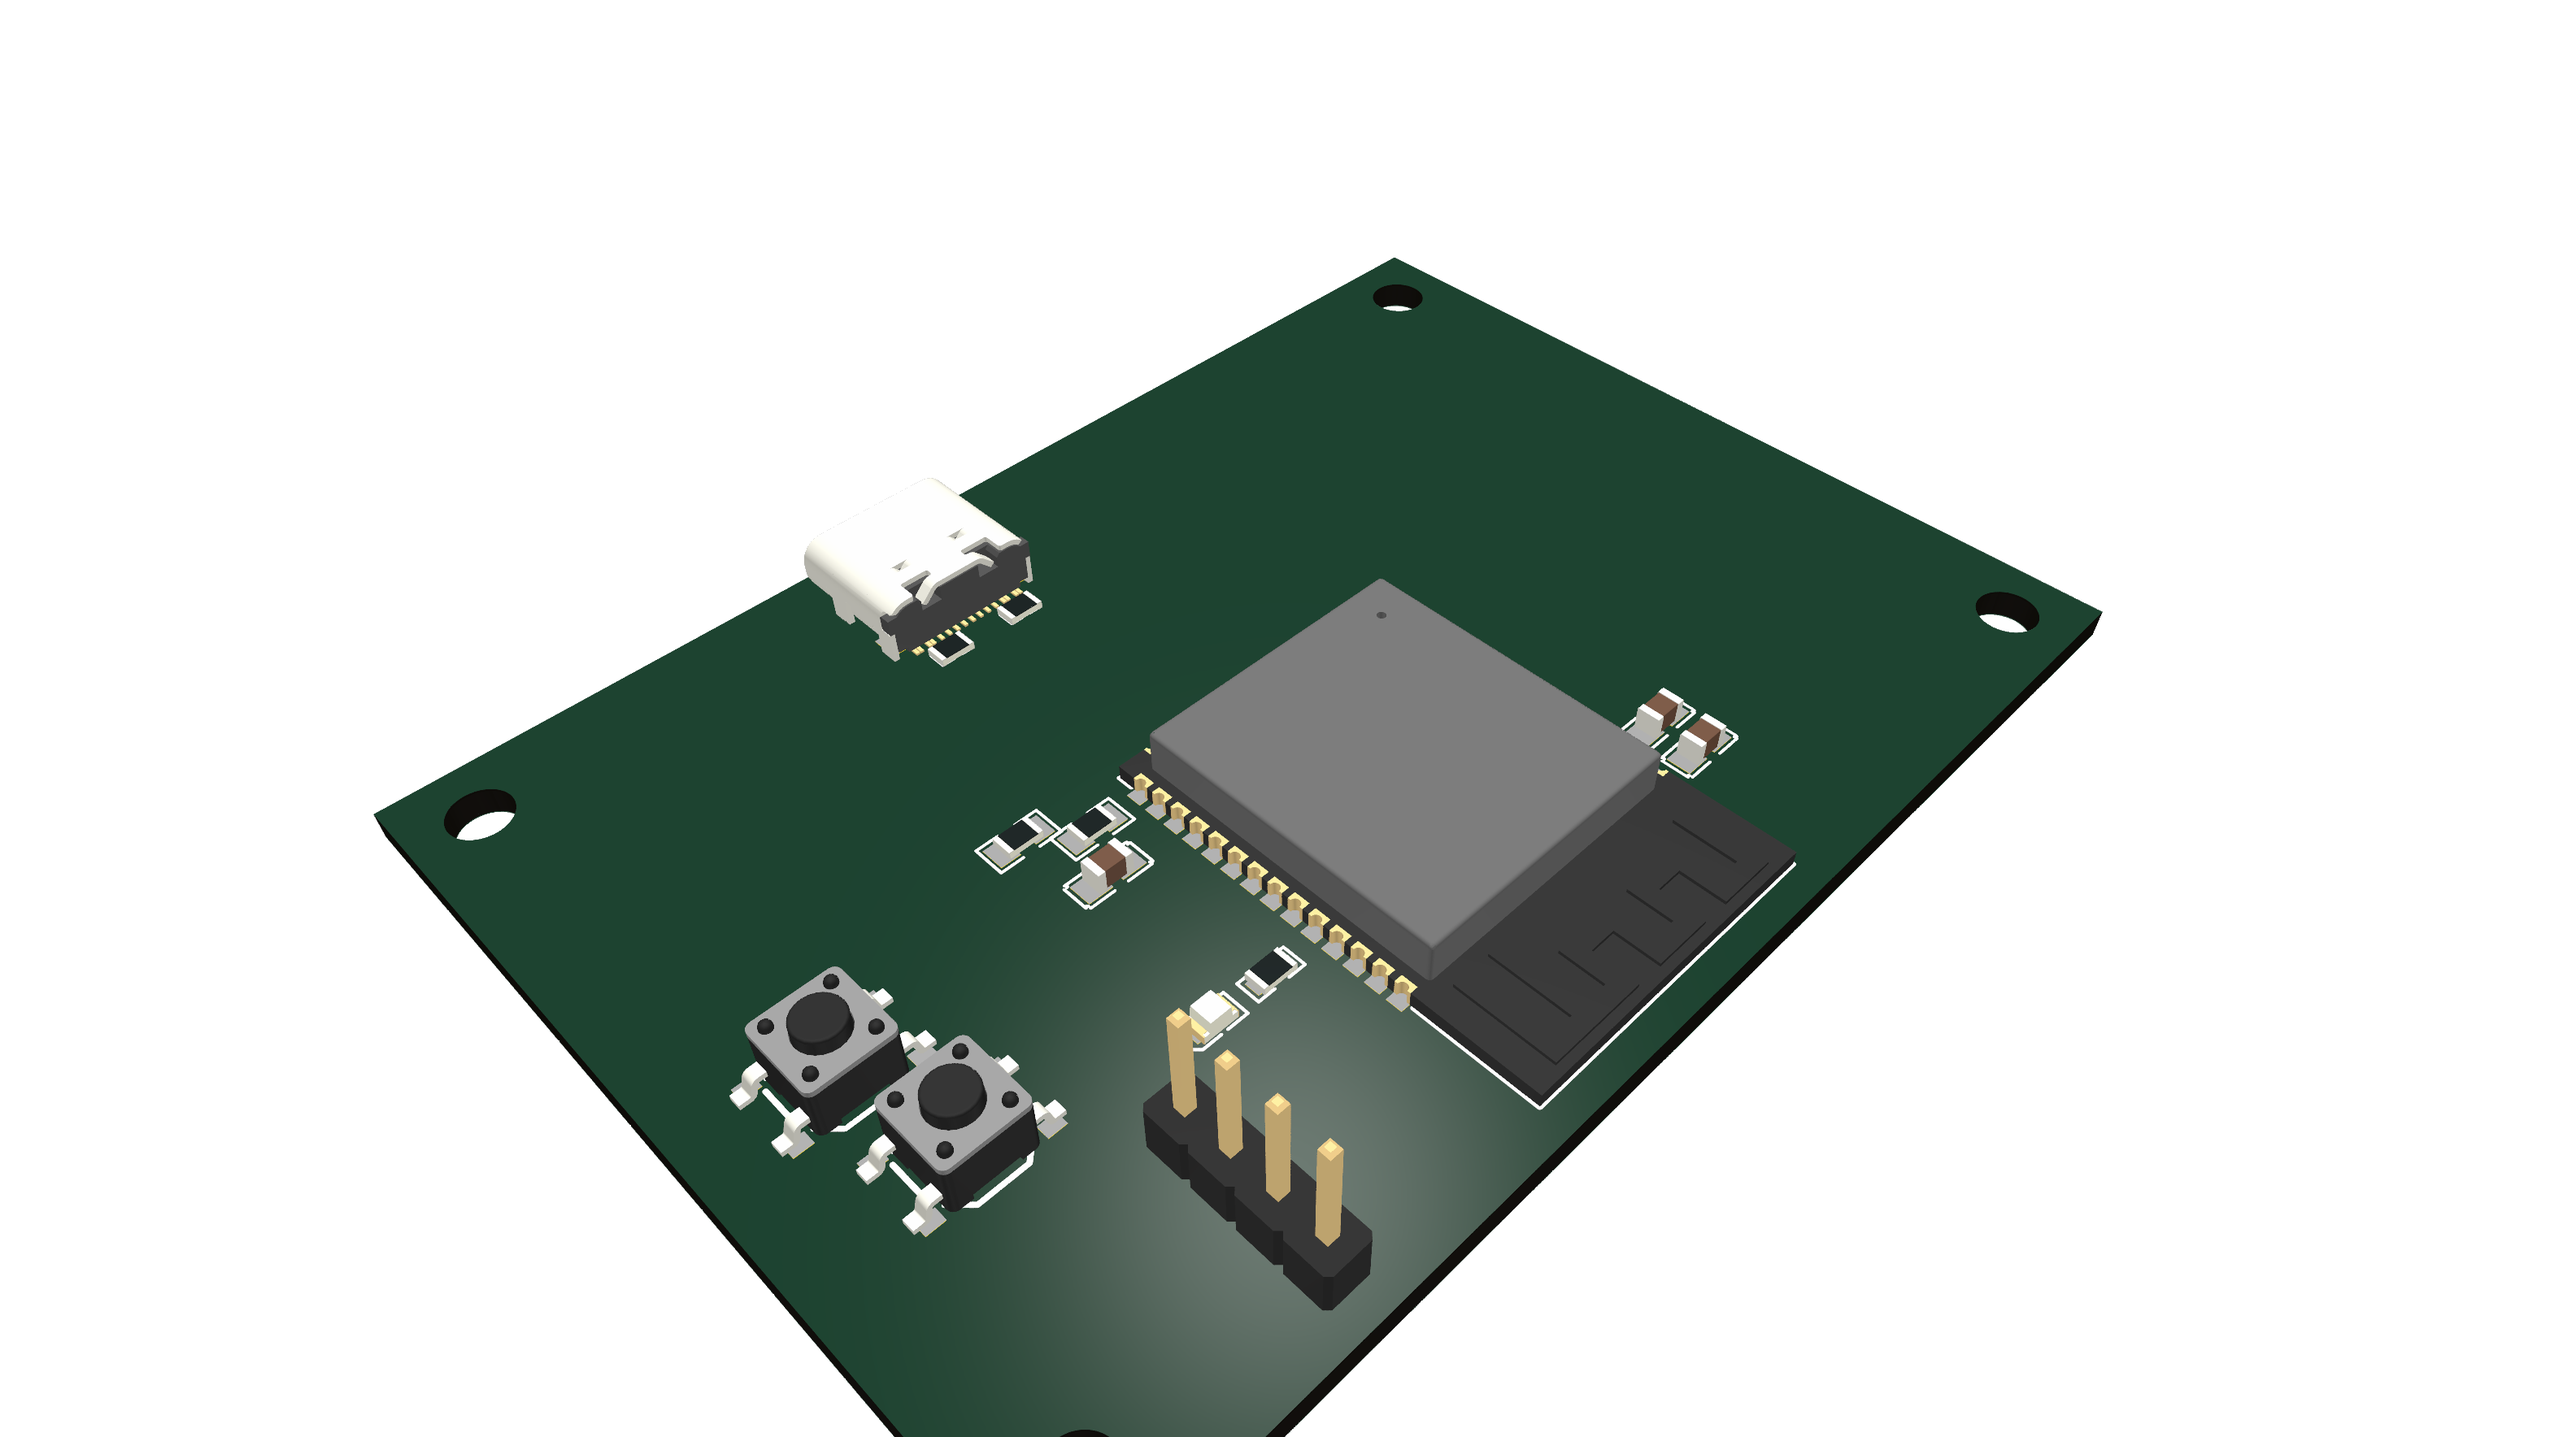
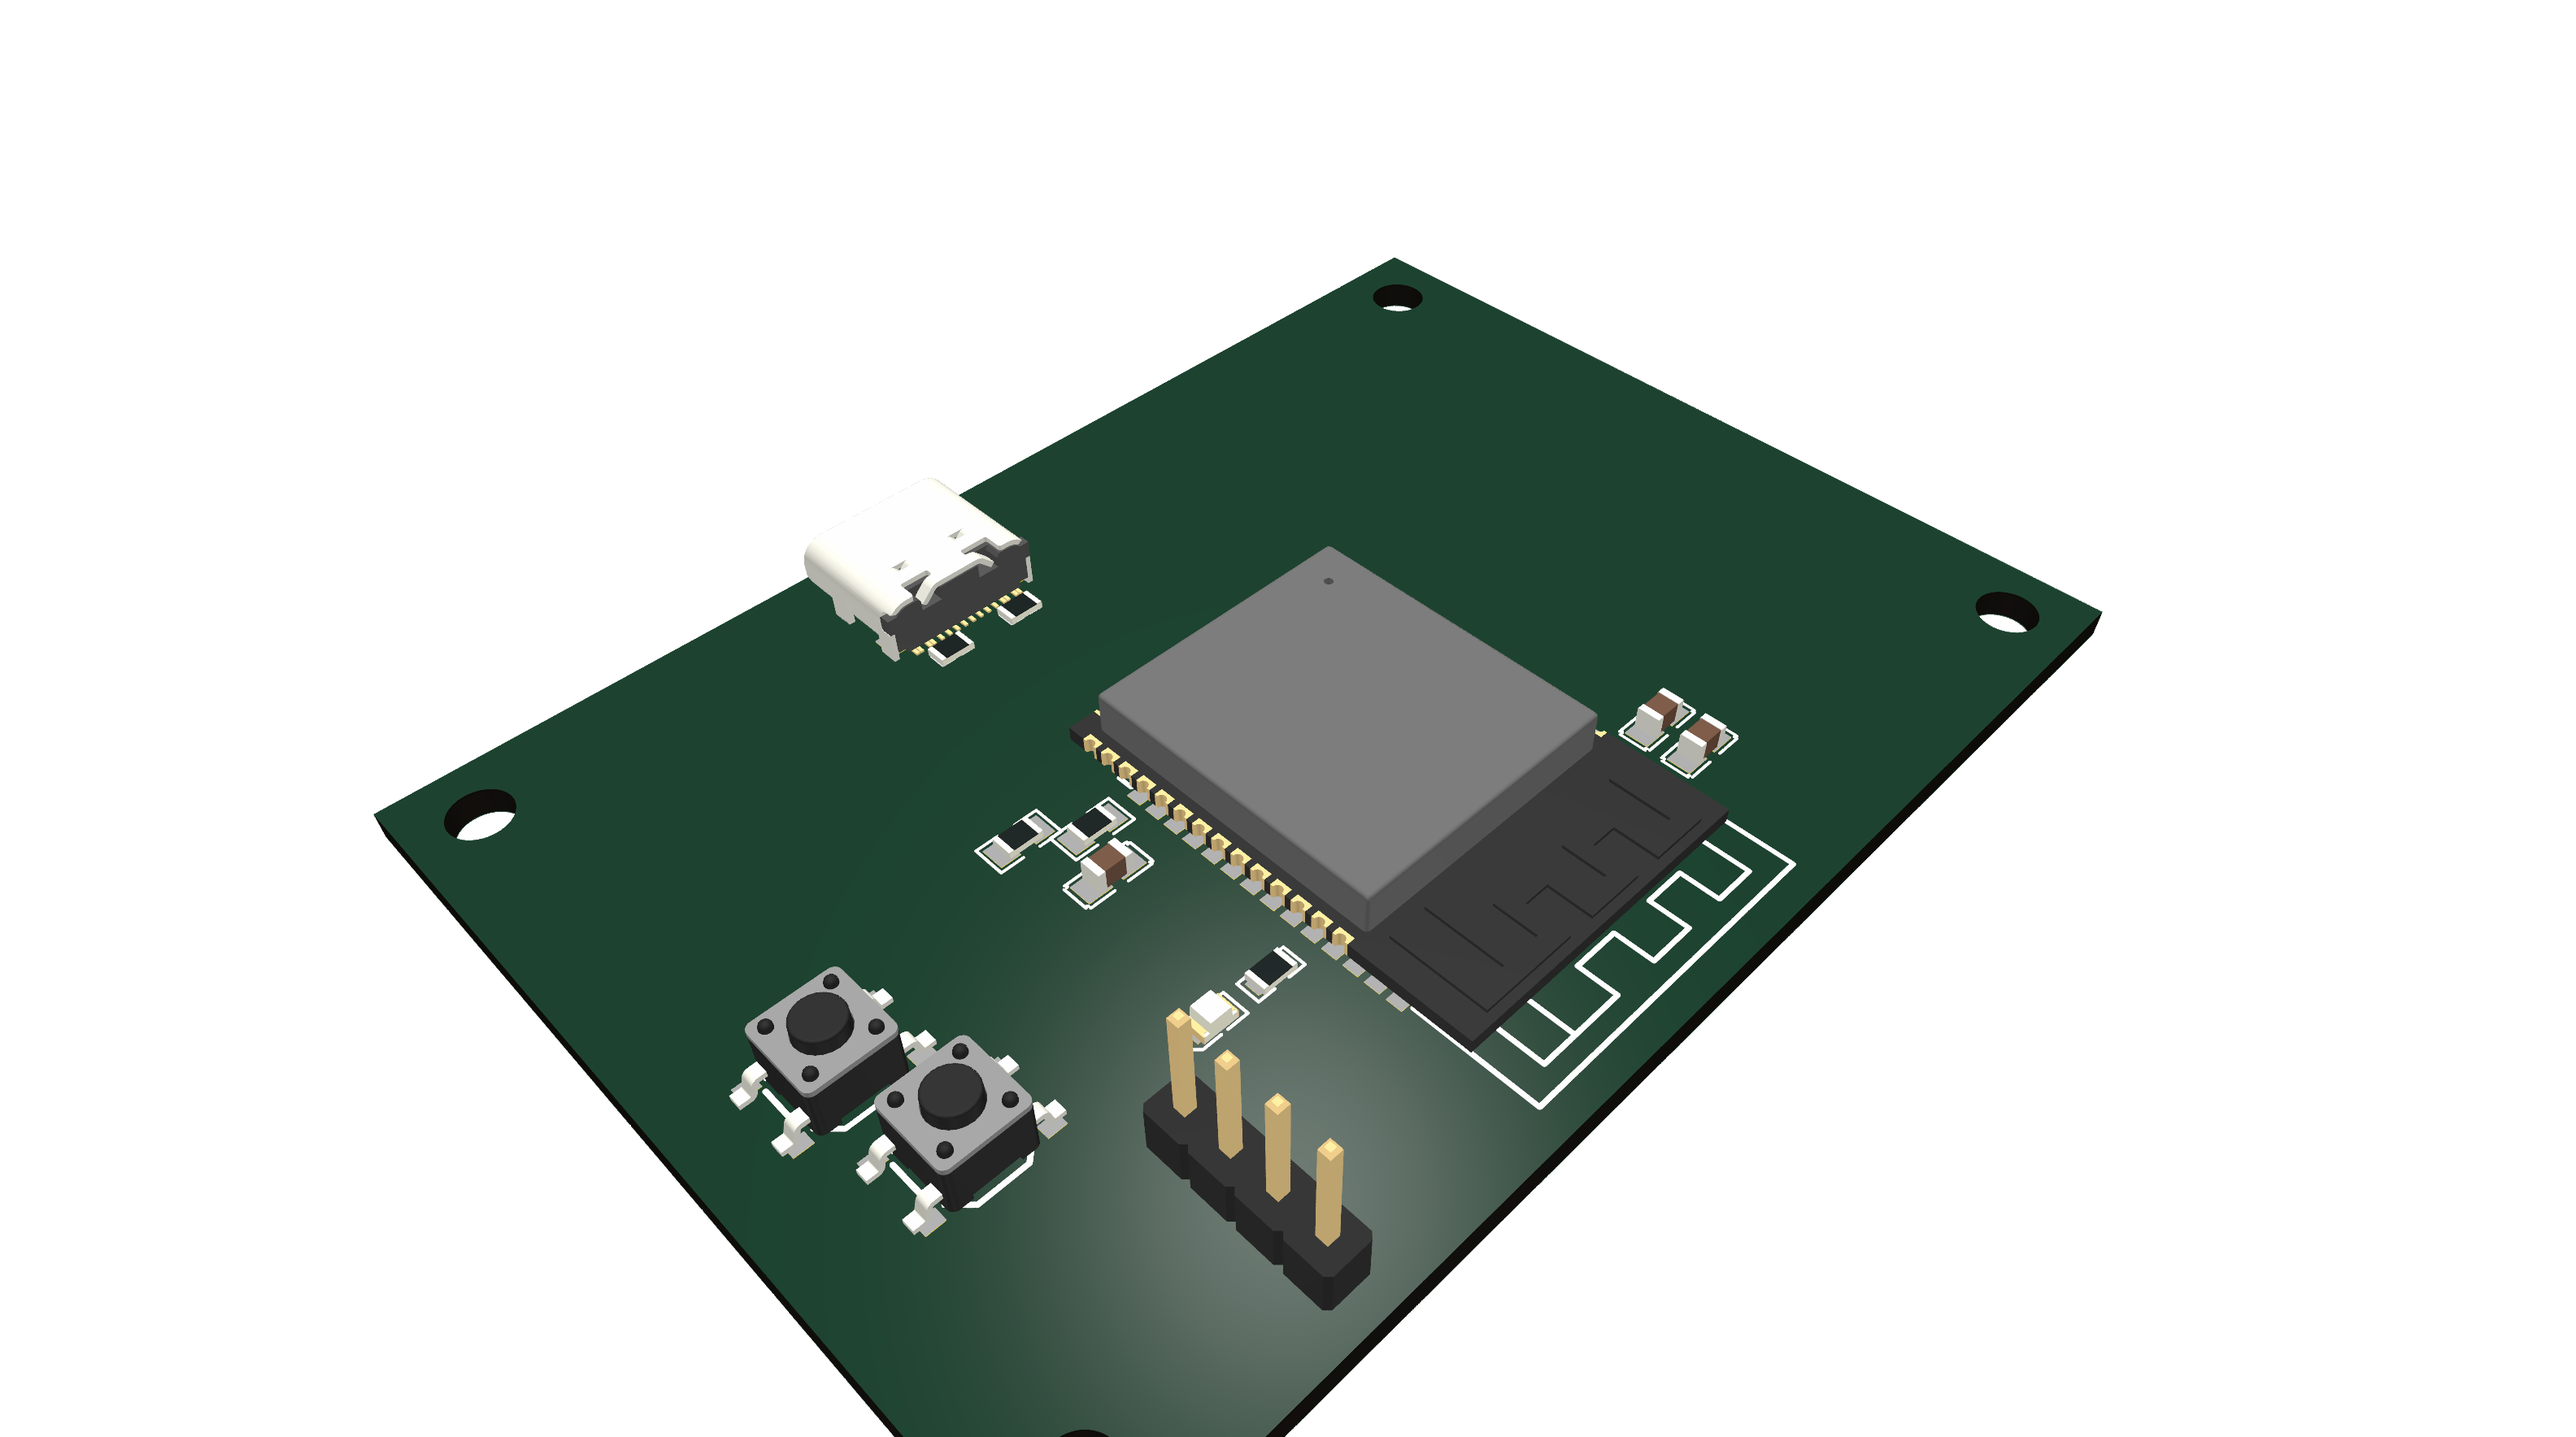
fix(pcb): stop mangling ESP32 3D model offset — use (0,0,0)
Remove all ESP32-specific 3D model offset hacks. The JLCPCB footprint
has centered pads and the KiCad STEP model is body-centered — zero
offset works. Let KiCad resolve the model from the .pretty library
at render time.

Verified at 3200px: ESP32 body centered on pads, antenna section
at bottom, no overlap with C1/C2 (moved to x=47).

Changed region(s): [[0.5, 0.4977, 0.7188, 0.7777], [0.4062, 0.3733, 0.5312, 0.5911], [0.4688, 0.5911, 0.5, 0.6222]]

diff --git a/src/kicad_pipeline/pcb/footprints.py b/src/kicad_pipeline/pcb/footprints.py
@@ -241,8 +241,7 @@ def _model_esp32(
         return None
     model_name = name.split(":")[-1] if ":" in name else name
     path = f"{KICAD_3DMODEL_VAR}/RF_Module.3dshapes/{model_name}.step"
-    # Offset compensates for easyeda footprint origin vs KiCad standard origin.
-    return Footprint3DModel(path=path, offset=(0.0, 3.63, 0.0))
+    return Footprint3DModel(path=path)
 
 
 def _model_switch(
@@ -1641,35 +1640,17 @@ def _esp32_enrich_antenna_keepout(fp: Footprint) -> tuple[list[FootprintKeepout]
 
 
 def _esp32_enrich_3d_model(fp: Footprint) -> tuple[Footprint3DModel, ...]:
-    """Return 3D model tuple with corrected offset for *fp*.
+    """Return existing 3D model or assign a default for *fp*.
 
-    The KiCad standard ESP32-S3-WROOM-1.step model has its origin at the
-    module center, which is ~3.63mm north of the JLCPCB footprint's pad
-    centroid.  Always apply this offset, even if the cached footprint
-    already has a model with offset (0,0,0).
+    If the footprint already has a 3D model, preserve it as-is.
+    Otherwise assign the KiCad standard model with zero offset.
     """
-    _ESP32_Y_OFFSET = 3.63  # mm, STEP origin vs pad centroid
-
-    # Use existing model path if available, but always correct the offset
     if fp.models:
-        base = fp.models[0]
-        if abs(base.offset[1] - _ESP32_Y_OFFSET) > 0.1:
-            # Offset needs correction
-            return (Footprint3DModel(
-                path=base.path,
-                offset=(base.offset[0], _ESP32_Y_OFFSET, base.offset[2]),
-                scale=base.scale,
-                rotate=base.rotate,
-            ),)
-        return fp.models  # already correct
+        return fp.models
 
-    model = _model_for_package("RF_Module:ESP32-S3-WROOM-1", fp.layer)
-    if model is None:
-        model = Footprint3DModel(
-            path=f"{KICAD_3DMODEL_VAR}/RF_Module.3dshapes/ESP32-S3-WROOM-1.step",
-            offset=(0.0, _ESP32_Y_OFFSET, 0.0),
-        )
-    return (model,)
+    return (Footprint3DModel(
+        path=f"{KICAD_3DMODEL_VAR}/RF_Module.3dshapes/ESP32-S3-WROOM-1.step",
+    ),)
 
 
 def _enrich_esp32_footprint(fp: Footprint) -> Footprint:
